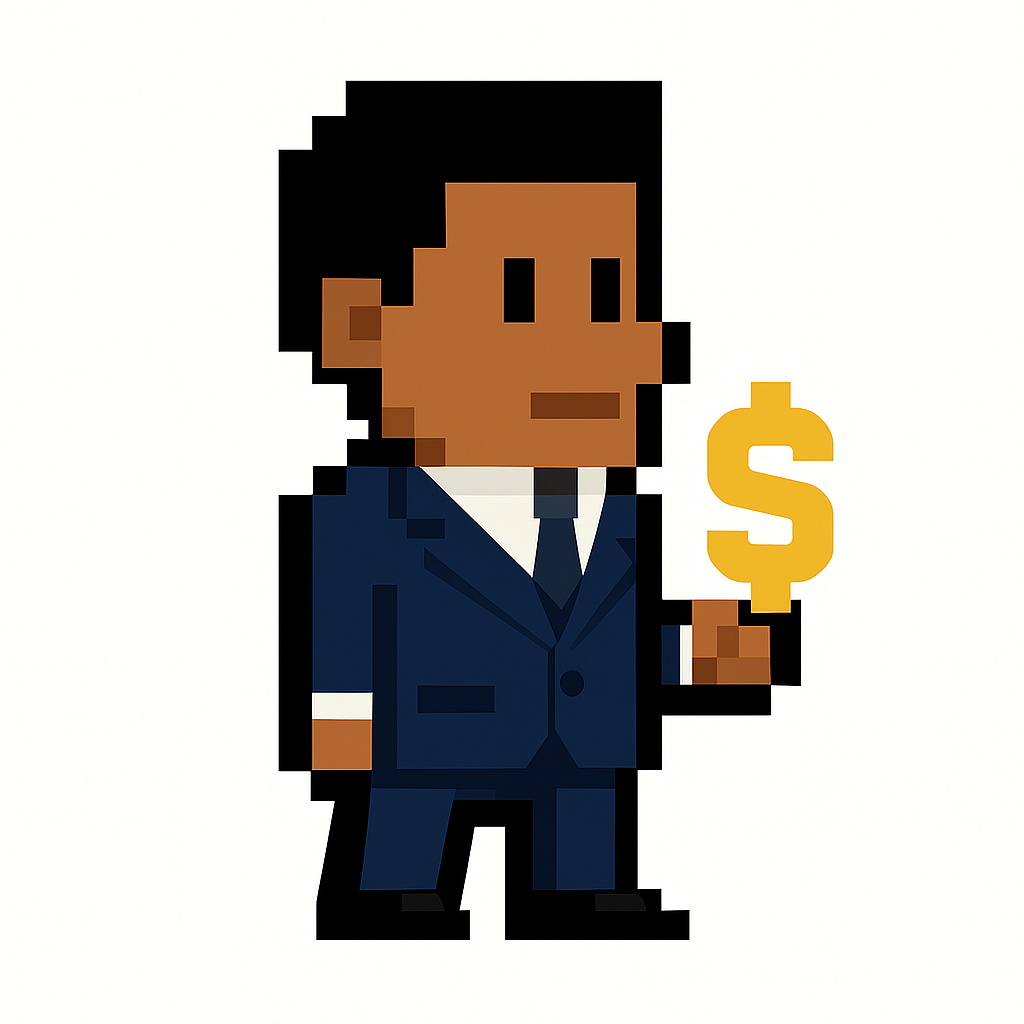
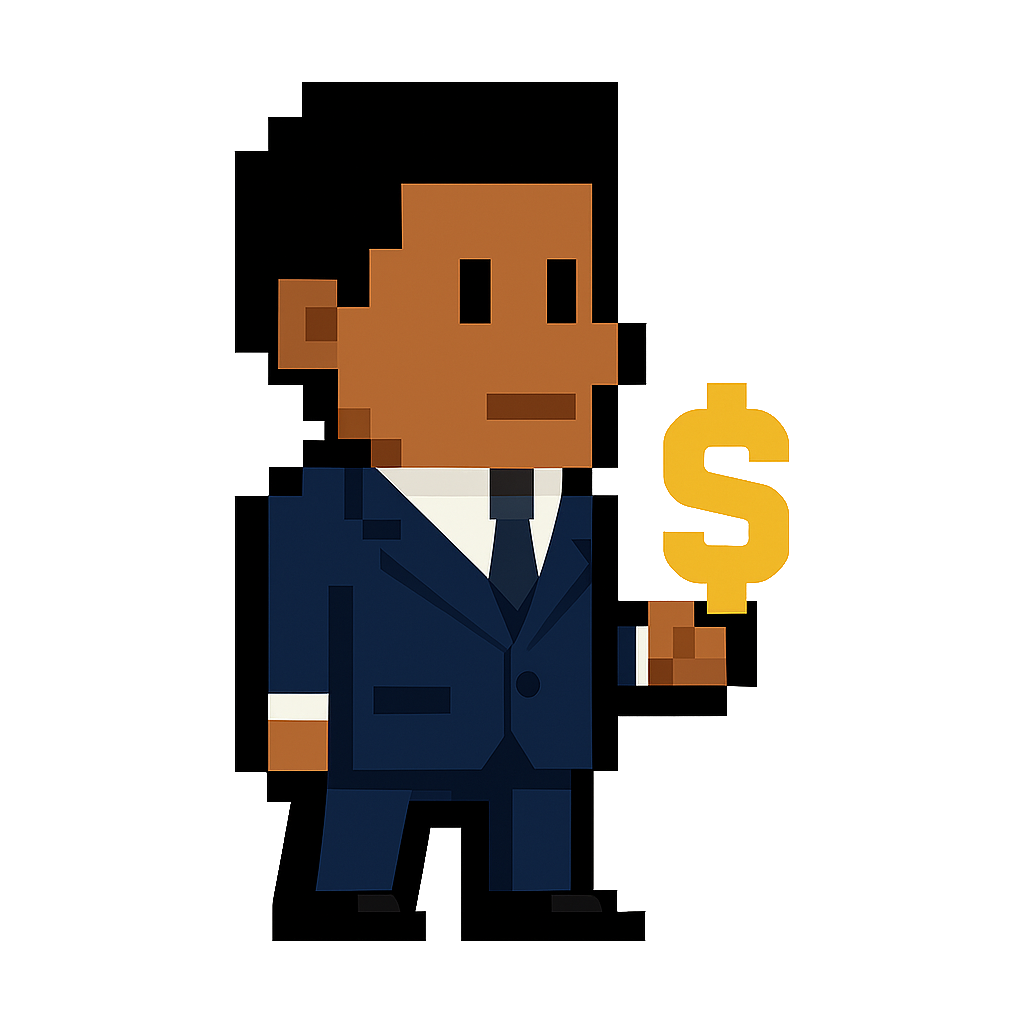
Ajout de nouveaux niveaux au jeu avec des plateformes, collectibles et ennemis, ainsi que mise à jour des images des personnages.

Changed region(s): [[0.2188, 0.0625, 0.8125, 0.9375]]

diff --git a/game.js b/game.js
@@ -581,6 +581,183 @@ const levelConfigs = {
             new Enemy(500, 338, 'police'),
             new Enemy(150, 218, 'politician')
         ]
+    },
+    4: {
+        name: "Babylon's Heights",
+        platforms: [
+            new Platform(80, 540, 100, 15, '#FF0000'),
+            new Platform(220, 500, 80, 15, '#FFD700'),
+            new Platform(340, 460, 100, 15, '#008000'),
+            new Platform(480, 420, 80, 15, '#FF0000'),
+            new Platform(620, 380, 100, 15, '#FFD700'),
+            new Platform(120, 340, 80, 15, '#008000'),
+            new Platform(280, 300, 100, 15, '#FF0000'),
+            new Platform(420, 260, 80, 15, '#FFD700'),
+            new Platform(580, 220, 100, 15, '#008000'),
+            new Platform(200, 180, 120, 15, '#FF0000'),
+            new Platform(360, 140, 100, 15, '#FFD700'),
+            new Platform(520, 100, 120, 15, '#008000'),
+            new Platform(300, 60, 200, 15, '#FFD700')
+        ],
+        collectibles: [
+            new Collectible(110, 505),
+            new Collectible(250, 465),
+            new Collectible(370, 425),
+            new Collectible(510, 385),
+            new Collectible(650, 345),
+            new Collectible(150, 305),
+            new Collectible(310, 265),
+            new Collectible(450, 225),
+            new Collectible(610, 185),
+            new Collectible(240, 145),
+            new Collectible(390, 105),
+            new Collectible(550, 65),
+            new Collectible(400, 25)
+        ],
+        enemies: [
+            new Enemy(200, canvas.height - 82, 'police'),
+            new Enemy(120, 508, 'corporate'),
+            new Enemy(380, 428, 'politician'),
+            new Enemy(520, 388, 'police'),
+            new Enemy(180, 308, 'corporate'),
+            new Enemy(450, 228, 'politician'),
+            new Enemy(330, 108, 'police')
+        ]
+    },
+    5: {
+        name: "Digital Oppression",
+        platforms: [
+            new Platform(50, 550, 80, 10, '#FF0000'),
+            new Platform(170, 520, 60, 10, '#FFD700'),
+            new Platform(270, 490, 80, 10, '#008000'),
+            new Platform(390, 460, 60, 10, '#FF0000'),
+            new Platform(490, 430, 80, 10, '#FFD700'),
+            new Platform(610, 400, 60, 10, '#008000'),
+            new Platform(720, 370, 80, 10, '#FF0000'),
+            new Platform(80, 340, 60, 10, '#FFD700'),
+            new Platform(180, 310, 80, 10, '#008000'),
+            new Platform(300, 280, 60, 10, '#FF0000'),
+            new Platform(400, 250, 80, 10, '#FFD700'),
+            new Platform(520, 220, 60, 10, '#008000'),
+            new Platform(620, 190, 80, 10, '#FF0000'),
+            new Platform(250, 160, 100, 10, '#FFD700'),
+            new Platform(380, 130, 80, 10, '#008000'),
+            new Platform(500, 100, 100, 10, '#FF0000'),
+            new Platform(350, 70, 150, 10, '#FFD700')
+        ],
+        collectibles: [
+            new Collectible(70, 515),
+            new Collectible(190, 485),
+            new Collectible(290, 455),
+            new Collectible(410, 425),
+            new Collectible(510, 395),
+            new Collectible(630, 365),
+            new Collectible(740, 335),
+            new Collectible(100, 305),
+            new Collectible(200, 275),
+            new Collectible(320, 245),
+            new Collectible(420, 215),
+            new Collectible(540, 185),
+            new Collectible(640, 155),
+            new Collectible(280, 125),
+            new Collectible(400, 95),
+            new Collectible(520, 65),
+            new Collectible(420, 35)
+        ],
+        enemies: [
+            new Enemy(300, canvas.height - 82, 'corporate'),
+            new Enemy(600, canvas.height - 82, 'police'),
+            new Enemy(90, 518, 'politician'),
+            new Enemy(310, 458, 'corporate'),
+            new Enemy(530, 398, 'police'),
+            new Enemy(200, 278, 'politician'),
+            new Enemy(440, 218, 'corporate'),
+            new Enemy(380, 98, 'police'),
+            new Enemy(450, 38, 'politician')
+        ]
+    },
+    6: {
+        name: "Final Liberation",
+        platforms: [
+            new Platform(40, 560, 60, 8, '#FF0000'),
+            new Platform(140, 540, 50, 8, '#FFD700'),
+            new Platform(230, 520, 60, 8, '#008000'),
+            new Platform(330, 500, 50, 8, '#FF0000'),
+            new Platform(420, 480, 60, 8, '#FFD700'),
+            new Platform(520, 460, 50, 8, '#008000'),
+            new Platform(610, 440, 60, 8, '#FF0000'),
+            new Platform(700, 420, 50, 8, '#FFD700'),
+            new Platform(60, 400, 50, 8, '#008000'),
+            new Platform(150, 380, 60, 8, '#FF0000'),
+            new Platform(250, 360, 50, 8, '#FFD700'),
+            new Platform(340, 340, 60, 8, '#008000'),
+            new Platform(440, 320, 50, 8, '#FF0000'),
+            new Platform(530, 300, 60, 8, '#FFD700'),
+            new Platform(630, 280, 50, 8, '#008000'),
+            new Platform(720, 260, 60, 8, '#FF0000'),
+            new Platform(120, 240, 80, 8, '#FFD700'),
+            new Platform(240, 220, 60, 8, '#008000'),
+            new Platform(340, 200, 80, 8, '#FF0000'),
+            new Platform(460, 180, 60, 8, '#FFD700'),
+            new Platform(560, 160, 80, 8, '#008000'),
+            new Platform(280, 140, 100, 8, '#FF0000'),
+            new Platform(420, 120, 80, 8, '#FFD700'),
+            new Platform(320, 100, 120, 8, '#008000'),
+            new Platform(200, 80, 200, 8, '#FFD700'),
+            new Platform(450, 60, 150, 8, '#FF0000'),
+            new Platform(300, 40, 250, 8, '#008000')
+        ],
+        collectibles: [
+            new Collectible(60, 525),
+            new Collectible(160, 505),
+            new Collectible(250, 485),
+            new Collectible(350, 465),
+            new Collectible(440, 445),
+            new Collectible(540, 425),
+            new Collectible(630, 405),
+            new Collectible(720, 385),
+            new Collectible(80, 365),
+            new Collectible(170, 345),
+            new Collectible(270, 325),
+            new Collectible(360, 305),
+            new Collectible(460, 285),
+            new Collectible(550, 265),
+            new Collectible(650, 245),
+            new Collectible(740, 225),
+            new Collectible(140, 205),
+            new Collectible(260, 185),
+            new Collectible(360, 165),
+            new Collectible(480, 145),
+            new Collectible(580, 125),
+            new Collectible(320, 105),
+            new Collectible(450, 85),
+            new Collectible(350, 65),
+            new Collectible(270, 45),
+            new Collectible(500, 25),
+            new Collectible(420, 5)
+        ],
+        enemies: [
+            new Enemy(200, canvas.height - 82, 'police'),
+            new Enemy(500, canvas.height - 82, 'corporate'),
+            new Enemy(700, canvas.height - 82, 'politician'),
+            new Enemy(70, 528, 'police'),
+            new Enemy(170, 508, 'corporate'),
+            new Enemy(270, 488, 'politician'),
+            new Enemy(370, 468, 'police'),
+            new Enemy(470, 448, 'corporate'),
+            new Enemy(570, 428, 'politician'),
+            new Enemy(80, 368, 'police'),
+            new Enemy(180, 348, 'corporate'),
+            new Enemy(280, 328, 'politician'),
+            new Enemy(380, 308, 'police'),
+            new Enemy(480, 288, 'corporate'),
+            new Enemy(580, 268, 'politician'),
+            new Enemy(160, 208, 'police'),
+            new Enemy(380, 168, 'corporate'),
+            new Enemy(340, 108, 'politician'),
+            new Enemy(380, 68, 'police'),
+            new Enemy(450, 28, 'corporate')
+        ]
     }
 };
 
